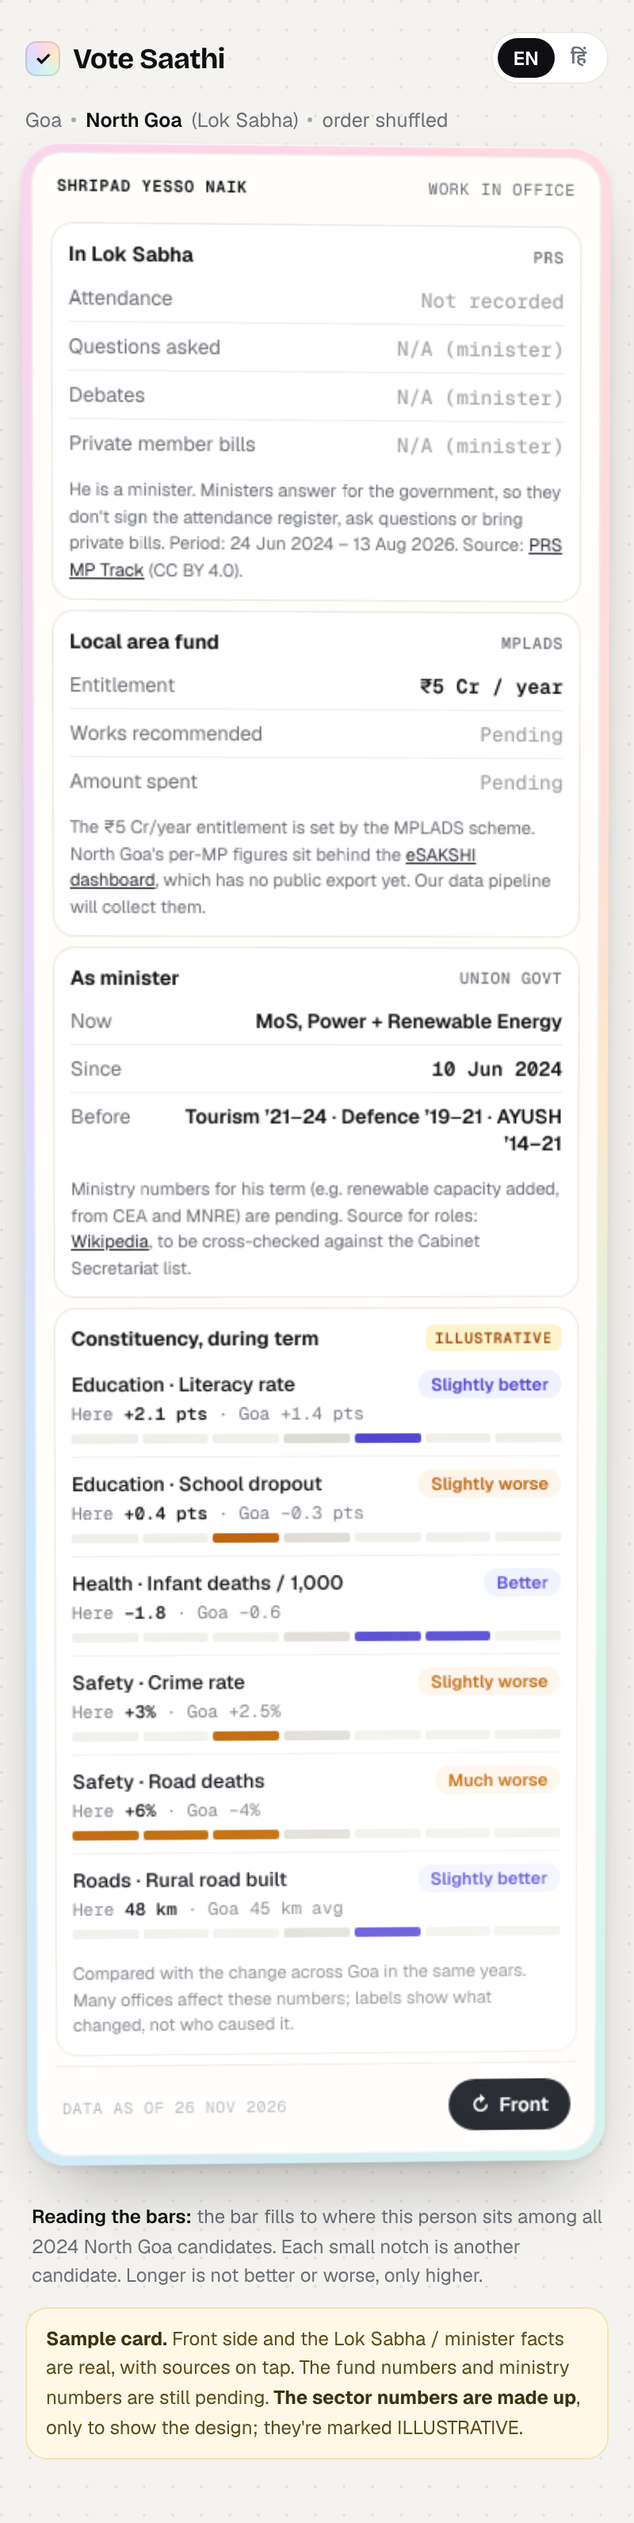
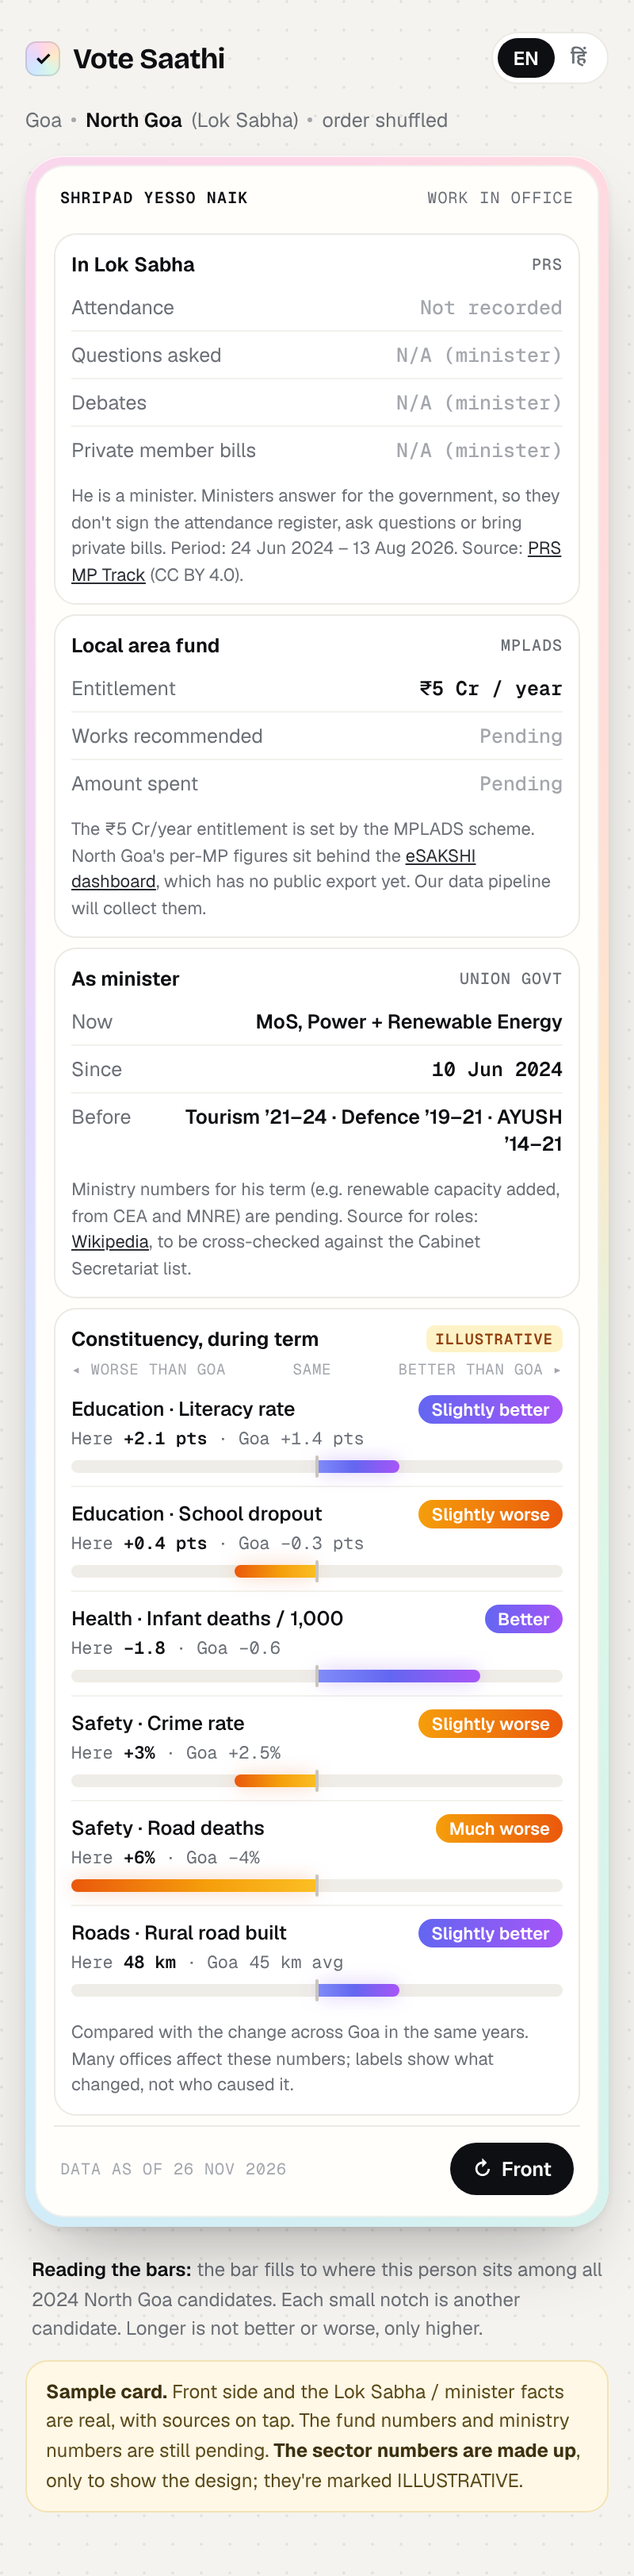
Vote Saathi: colorful diverging bars on card back
Claude-Session: https://claude.ai/code/session_01KSnZnz1Q3eunecs4m9XQdi

diff --git a/votesaathi/index.html b/votesaathi/index.html
@@ -118,12 +118,15 @@ button{font:inherit;color:inherit;cursor:pointer}
 .ind .row .sl{font-size:12.5px}
 .vals{font-family:var(--mono);font-size:11px;color:var(--muted);margin-top:2px}
 .vals b{color:var(--ink);font-weight:600}
-.meter{display:grid;grid-template-columns:repeat(7,1fr);gap:3px;margin-top:6px}
-.meter i{height:6px;border-radius:2px;background:var(--track)}
-.meter i.mid{background:#DAD7CF}
-.meter i.b{background:var(--better)} .meter i.w{background:var(--worse)}
+.dtrk{position:relative;height:8px;margin-top:7px;border-radius:99px;background:var(--track)}
+.dfill{position:absolute;top:0;bottom:0;width:0;transition:width .9s cubic-bezier(.2,.8,.2,1)}
+.dfill.b{left:50%;border-radius:0 99px 99px 0;background:linear-gradient(90deg,#818CF8,#6366F1 45%,#A855F7);box-shadow:0 0 12px -2px rgba(124,58,237,.55)}
+.dfill.w{right:50%;border-radius:99px 0 0 99px;background:linear-gradient(270deg,#FBBF24,#F59E0B 45%,#EA580C);box-shadow:0 0 12px -2px rgba(234,88,12,.5)}
+.dtrk .c{position:absolute;left:50%;top:-3px;bottom:-3px;width:2px;margin-left:-1px;border-radius:2px;background:#C9C5BC}
+.dtrk .z{position:absolute;left:50%;top:50%;width:10px;height:10px;margin:-5px 0 0 -5px;border-radius:50%;background:#fff;box-shadow:0 0 0 2px #B9B5AC}
+.dscale{display:flex;justify-content:space-between;margin-top:5px;font-family:var(--mono);font-size:9.5px;color:var(--faint);text-transform:uppercase;letter-spacing:.4px}
 .lab{font-size:11px;font-weight:600;padding:2px 8px;border-radius:99px;white-space:nowrap}
-.lab.p{color:var(--better);background:var(--better-soft)} .lab.n{color:var(--worse);background:var(--worse-soft)} .lab.z{color:var(--muted);background:var(--chip)}
+.lab.p{color:#fff;background:linear-gradient(90deg,#6366F1,#A855F7)} .lab.n{color:#fff;background:linear-gradient(90deg,#F59E0B,#EA580C)} .lab.z{color:var(--muted);background:var(--chip)}
 .illus{font-family:var(--mono);font-size:9.5px;font-weight:600;letter-spacing:.5px;color:#92400E;background:#FEF3C7;border-radius:5px;padding:2px 6px}
 
 .below{width:100%;max-width:368px;margin-top:18px;display:grid;gap:10px}
@@ -173,7 +176,7 @@ button{font:inherit;color:inherit;cursor:pointer}
   <div class="sec"><h3><span data-t="fund">Local area fund</span><small>MPLADS</small></h3><div id="fund"></div></div>
   <div class="sec"><h3><span data-t="minister">As minister</span><small>Union govt</small></h3><div id="min"></div></div>
   <div class="sec"><h3><span data-t="sectors">Constituency, during term</span><span class="illus">ILLUSTRATIVE</span></h3>
-    <div id="sectors"></div>
+    <div class="dscale" style="margin:2px 0 2px"><span>◂ Worse than Goa</span><span>Same</span><span>Better than Goa ▸</span></div><div id="sectors"></div>
     <div class="note" data-t="shared">Compared with the change across Goa in the same years. Many offices affect these numbers; labels show what changed, not who caused it.</div>
   </div>
 
@@ -226,14 +229,15 @@ function render(){
   $("min").innerHTML=D.minister.map(kv).join("")+`<div class="note">${D.ministerNote}</div>`;
   $("sectors").innerHTML=D.sectors.flatMap(sec=>sec.rows.map(r=>{
     const [lvl,txt,cls]=LV[r[3]];
-    const seg=[-3,-2,-1,0,1,2,3].map(i=>{let c=i===0?'mid':'';if(lvl>0&&i>0&&i<=lvl)c='b';if(lvl<0&&i<0&&i>=lvl)c='w';return `<i class="${c}"></i>`;}).join("");
+    const w=Math.abs(lvl)/3*50;
+    const bar=lvl===0?'<span class="z"></span>':`<span class="dfill ${lvl>0?'b':'w'}" data-w="${w}"></span><span class="c"></span>`;
     return `<div class="ind"><div class="row"><span class="sl">${esc(sec.name)} · ${esc(r[0])}</span><span class="lab ${cls}">${txt}</span></div>
-      <div class="vals">Here <b>${esc(r[1])}</b> · Goa ${esc(r[2])}</div><div class="meter">${seg}</div></div>`;
+      <div class="vals">Here <b>${esc(r[1])}</b> · Goa ${esc(r[2])}</div><div class="dtrk">${bar}</div></div>`;
   })).join("");
   $("asof").textContent=D.asof.toUpperCase();
   $("samplenote").innerHTML=D.sampleNote;
   applyLang();
-  requestAnimationFrame(()=>setTimeout(()=>document.querySelectorAll(".fill").forEach(f=>f.style.width=Math.max(f.dataset.w,0)+"%"),60));
+  requestAnimationFrame(()=>setTimeout(()=>document.querySelectorAll(".fill,.dfill").forEach(f=>f.style.width=Math.max(f.dataset.w,0)+"%"),60));
 }
 function applyLang(){document.querySelectorAll("[data-t]").forEach(el=>{const v=T[lang][el.dataset.t];if(v)el.textContent=v;});}
 document.querySelectorAll(".seg button").forEach(b=>b.onclick=()=>{document.querySelectorAll(".seg button").forEach(x=>x.classList.remove("on"));b.classList.add("on");lang=b.dataset.l;applyLang();});
